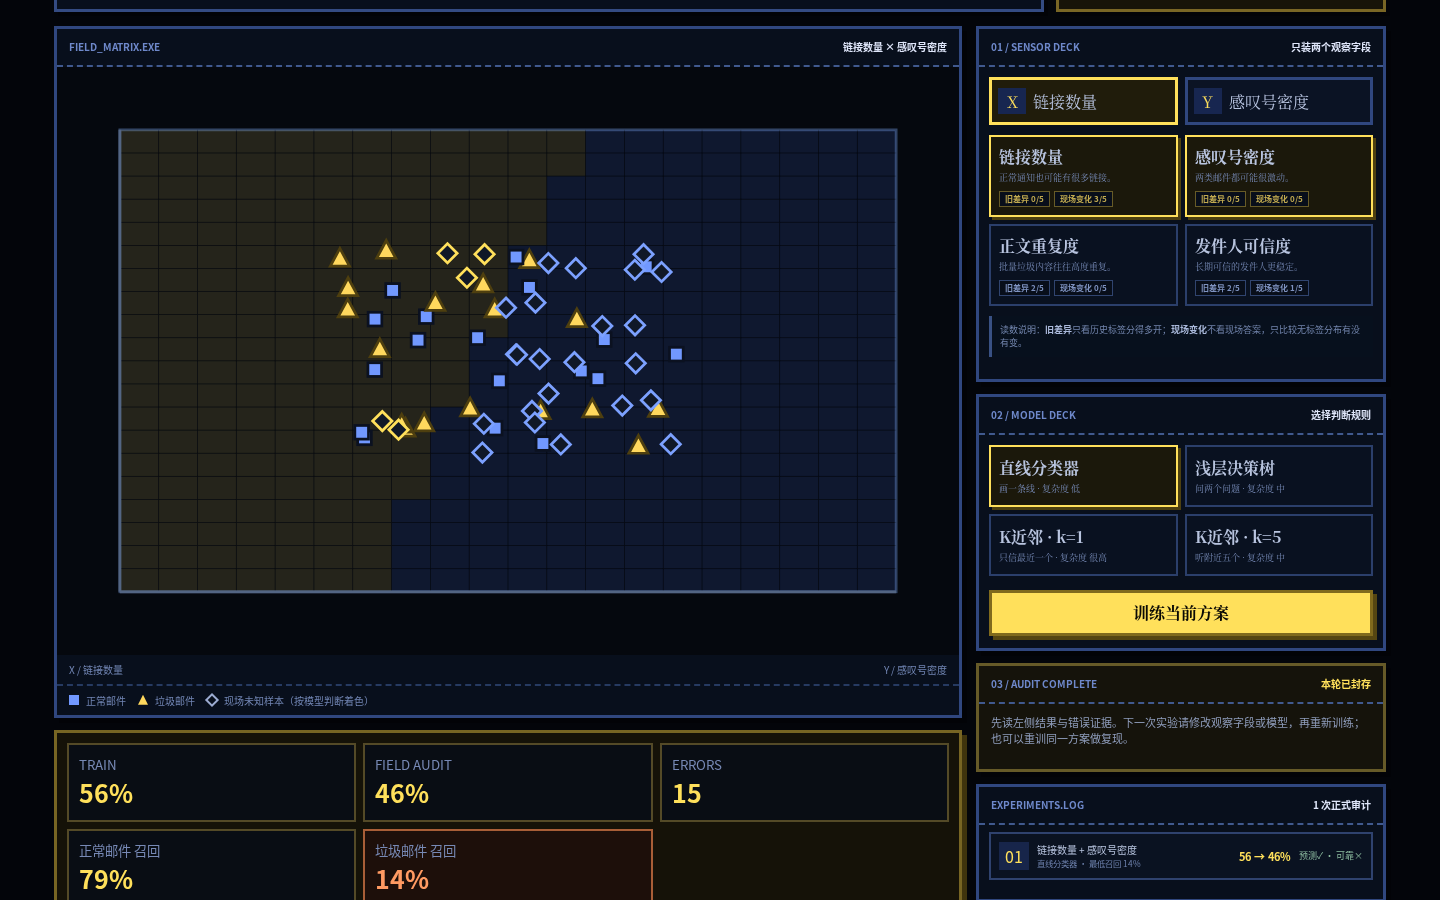
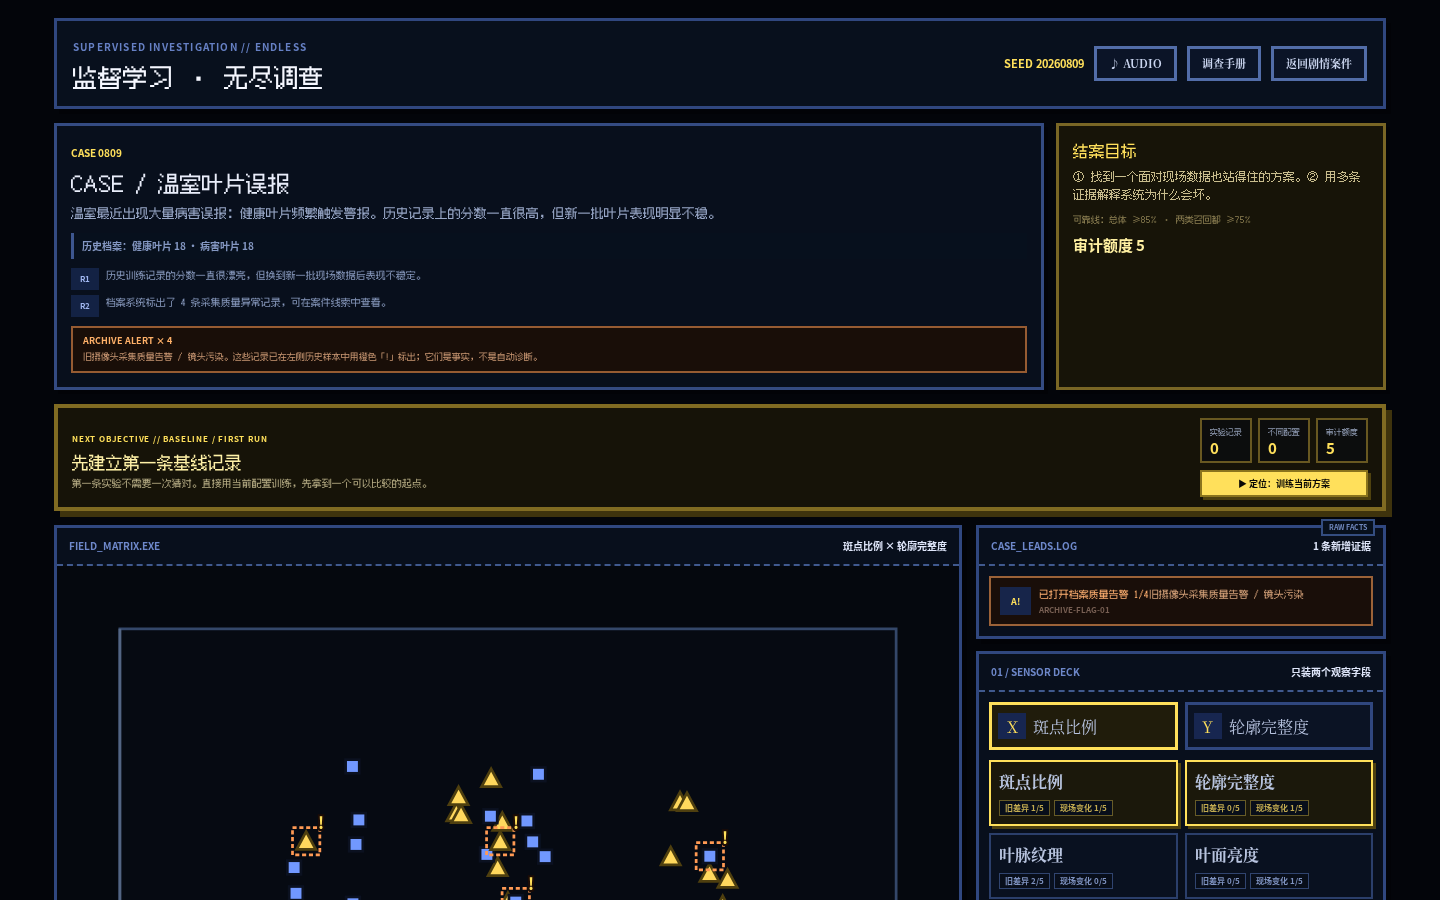
docs: document guided endless investigation flow

diff --git a/docs/VALIDATION.md b/docs/VALIDATION.md
@@ -1,6 +1,6 @@
 # V1 发布验证记录
 
-验证日期：2026-08-09
+验证日期：2026-08-10
 
 ## 发布级验证命令
 
@@ -18,9 +18,9 @@ npm run test:e2e
 
 - ESLint：通过，0 warning / 0 error。
 - TypeScript strict typecheck：通过。
-- Vitest：7 个测试文件、28 个测试全部通过。
+- Vitest：9 个测试文件、37 个测试全部通过。
 - Vite production build：通过。
-- Playwright：5 条 Chromium E2E 通过（剧情完整案件、debug 工程模式、无尽证据路线、额度耗尽恢复路线、类别不平衡路线）。
+- Playwright：13 条 Chromium E2E 通过，覆盖剧情完整案件、debug 工程模式、无尽模式说明、Boot Case 000、正式证据导航、症状文案、复现实验守卫、桌面 viewport、分布变化、额度恢复与类别不平衡。
 - GitHub Actions CI：通过；GitHub runner 已真实执行 lint、typecheck、unit tests、build、Chromium E2E。
 
 ## 固定 seed 教学指标
@@ -60,12 +60,15 @@ Vitest 当前覆盖：
 - 教学任务、NPC 提示、模型 / 特征说明保持短文本约束。
 - 调查评级：错误上线、推理修正、预测偏差、额外审计和提示会降低评级；S 只保留给干净证据路线。
 - 无尽生成器：确定性、四类 syndrome、传感器通道重排、可解性与随机配置成功比例。
+- 无尽案件 symptom-only brief：incident / reported facts 不直接写出正确诊断；过拟合类含可点击历史档案质量告警，distribution-shift 含历史 / 现场批次元数据。
+- 无尽实验设计：同一配置重复审计识别为 replication，不增加可提交诊断所需的“不同配置”数量；只换字段 / 只换模型 / 混合改动均有确定分类。
+- answer-neutral 导航：baseline、预测、对照、诊断、诊断锁、零额度恢复均映射到可达下一动作；导航文本单测禁止出现四类 syndrome 答案词。
 - 类别不平衡：存在总体 Accuracy ≥90% 但最低类别 recall <75% 的真实假好方案，同时存在可靠解。
 - 自动玩法平衡：批量 seed 上 evidence-policy 必须显著优于 5 次 random-clicker。
 
 ## Playwright 浏览器 E2E
 
-`e2e/happy-path.spec.ts` 当前包含五条真实 Chromium 路线。
+`e2e/happy-path.spec.ts` 当前包含 13 条真实 Chromium 路线。
 
 零基础玩家完整案件：
 
@@ -87,7 +90,18 @@ Vitest 当前覆盖：
 
 工程模式路线会直接打开 `?debug=1`，验证 DebugPanel、阶段跳转和快速主操作仍可用，不受普通玩家 micro-beat 门槛影响。
 
-无尽证据路线用程序化案件验证：5 次正式审计预算、先预测再审计、错误诊断后不能立刻轮流试答案、必须新增一次审计才可改口、正确诊断后生成下一案。
+无尽 onboarding / 证据路线现在验证：
+
+- 标题次入口先进入模式说明，不直接把新人扔进 sandbox。
+- Boot Case 000 真实完成“建立基线 → 只换字段做对照 → 从日志认出变量 → 三类证据阅读练习 → 诊断草稿 → 正式提交”；所有分数来自真实 generator / model / audit。
+- Boot 完成后使用版本化 localStorage 标记；正式模式仍可 query 直达，训练案件可重玩。
+- 正式案件首屏只描述症状，不写出 syndrome；sticky `NEXT OBJECTIVE` 持续告诉玩家下一步缺什么动作，但不推荐具体字段、模型或病因。
+- 过拟合类历史档案的质量告警在散点图里为可点击橙色 `!`；只有玩家亲手打开后才进入 `CASE_LEADS.LOG`。
+- 正式审计结果只给总体 / 两类 recall 的 PASS/FAIL 门槛，不自动解释成过拟合、漂移或类别不平衡。
+- `EXPERIMENTS.LOG` 记录 baseline、只换字段、只换模型、混合改动与复现实验；错误诊断后，原样复现不会解锁改口，必须产生一个不同配置的新正式审计。
+- 诊断锁且额度为 0 时，sticky 导航会直接定位到“申请 1 次补充审计”，验证有限预算不形成软锁。
+- 1280×720 以及常规桌面 viewport 验证 intro / Boot / 正式模式没有横向爆版，`定位下一步操作` 可将关键 CTA 带入视野。
+- distribution-shift 路线验证 `HISTORY BATCH / FIELD BATCH` 元数据可见，但首屏不出现“分布漂移”答案词。
 
 额度恢复路线会连续耗尽 5 次正式未知审计，确认额外审计入口出现、恢复 1 次可执行额度，并且这类补救会进入结案评级扣分；有限预算因此制造决策成本，但不会造成不可恢复死局。
 
@@ -106,7 +120,7 @@ E2E 使用 Playwright 的真实可操作性检查；如果 overlay、NPC、toolt
 
 - evidence-policy 结案率约 **98.9%**；
 - random-clicker 结案率约 **15.7%**；
-- evidence-policy 平均最佳未知表现约 **99.0%**；
+- evidence-policy 平均最佳未知表现约 **99.4%**；
 - random-clicker 平均最佳未知表现约 **88.5%**。
 
 Evidence policy 只读取玩家同样可见的训练标签几何与**无标签**现场分布变化，不读取隐藏 syndrome/test label。测试硬门槛要求 evidence solve rate ≥90%、random solve rate <30%、二者结案率差 >60 个百分点，并要求未知表现存在显著差距。
@@ -141,6 +155,7 @@ Windows 真机截图仍作为最终美术判断基准；headless Chromium 主要
 - `hero.png`：Cold Open 中小析正式给出案件目标。
 - `misclassification.png`：两条未知误判证据与现场推理。
 - `endless.png`：监督学习无尽模式的首次正式审计。
+- `endless-boot.png`：Boot Case 000 的两条控制变量实验记录。
 - `imbalance.png`：总体高分但少数类召回失败的类别不平衡陷阱。
 - `demo.gif`：标题 → 事故录像 → 案件目标 → 旧样本观察 → 决策探针 → 两条证据 → 过拟合 → 备用传感器 → 最终修复的短演示。
 

diff --git a/README.md b/README.md
@@ -46,6 +46,12 @@
 
 **Supervised Investigation · 无尽调查** 是可重复玩的程序化监督学习诊断模式。每个 seed 会重排传感器通道、生成不同案件语境，并从四类真实故障中产生一类：特征不足、训练噪声 / 过拟合、分布漂移、类别不平衡。训练免费，但正式未知审计只有 5 次；每次审计前必须先预测结果，最后还要提交病因。
 
+第一次进入无尽调查不会直接掉进驾驶舱：短模式说明先解释“配置 → 预测 → 审计 → 对照 → 诊断”的循环，随后推荐完成 **Boot Case 000**。训练案件会亲手教一次控制变量、读取 `EXPERIMENTS.LOG`、识别训练满分 / 类别召回 / 环境变化等证据模式，以及“选择病因只是草稿，提交才会锁报告”。正式无尽模式随后撤掉这些解释，只保留一个 sticky `NEXT OBJECTIVE` 告诉玩家**下一步缺什么动作或证据**，不会告诉该选哪个字段、模型或病因。
+
+![Boot Case 000：控制变量实验](docs/assets/endless-boot.png)
+
+正式案件的故障也必须存在于可观察世界里：过拟合案件会留下可点击的历史采集质量告警，分布变化案件显示历史 / 现场批次元数据，类别不平衡直接来自真实档案构成；这些都是原始事实，不是自动诊断。
+
 ![监督学习无尽调查](docs/assets/endless.png)
 
 无尽模式不只看 Accuracy：可靠方案要求总体未知准确率 ≥85%，且两类召回都 ≥75%。因此会出现“总体 93%，但少数类召回只有 50%，仍然不能结案”的陷阱。
@@ -59,6 +65,7 @@
 - **过拟合是真的。** 固定 seed 下，k=1 会真实取得训练 100%，同时在未知数据上退步。
 - **错误样本可以调查。** 不是只给一个 Accuracy；玩家必须调查两条不同误判并完成一次证据推理。
 - **实验有成本。** 正式未知审计有额度；改模型 / 特征后必须重新下注，穷举不是零成本最优策略。
+- **对照实验真的有价值。** `EXPERIMENTS.LOG` 会记录“只换字段 / 只换模型 / 两者都换 / 原样复现”，结案评级会评价实验设计质量，但不会阻止玩家自由试验。
 - **评价不只看总分。** 无尽模式还看两类召回，能制造“93% Accuracy 仍然不能上线”的类别不平衡案件。
 - **先体验，再命名概念。** 玩家先遇到“旧题会、新题崩”，之后游戏才告诉你这叫泛化与过拟合。
 - **自动测试游戏深度。** 程序会比较 evidence-policy 与 random-clicker；当前平衡门槛要求证据策略结案率显著高于 5 次随机穷举。
@@ -99,7 +106,7 @@
 - reducer 状态机负责教学守卫与阶段推进
 - 程序化 Web Audio 8-bit BGM / 音效
 - Vitest：ML 核心、隐藏测试边界、状态机、调查评级、无尽案件生成与 random-clicker 平衡基线
-- Playwright：剧情完整路线、debug 工程路线、无尽诊断路线、额度耗尽恢复路线、类别不平衡路线
+- Playwright：剧情完整路线、debug 工程路线、无尽模式说明、Boot Case 000、正式证据导航、窄屏桌面、额度恢复、分布变化、类别不平衡等真实浏览器路线
 - GitHub Actions：lint + typecheck + unit test + build + E2E
 - GitHub Pages：`main` 更新后自动构建部署，并用同一条 Playwright 流程验证生产站点
 
@@ -114,7 +121,7 @@ npm run dev
 
 然后打开 Vite 输出的本地地址。
 
-标题页可直接进入剧情案件或监督学习无尽调查；也可以用 query 固定无尽 seed：
+标题页以剧情案件为主入口；“已熟悉流程？进入无尽调查”会先进入模式说明与训练案件。开发 / 复现时也可以用 query 直接固定正式无尽 seed：
 
 ```text
 http://localhost:5173/?mode=endless&seed=6000

diff --git a/docs/PRODUCT_DESIGN.md b/docs/PRODUCT_DESIGN.md
@@ -63,14 +63,27 @@
 ## 监督学习无尽模式
 V1 不扩第二个手工剧情关卡，而是增加可重复的 `Supervised Investigation`：
 
+### 进入桥接
+- 标题页使用“已熟悉流程？进入无尽调查”作为次入口，避免与剧情主入口争夺第一次注意力。
+- 首次进入先显示一张极短模式说明，只讲规则循环，不讲任何案件答案。
+- 推荐先完成 **Boot Case 000**：用真实 generator / model / audit 结果做两次控制变量实验，亲手读取实验日志，再完成训练版诊断提交。
+- Boot Case 还集中教学三类常见证据阅读：训练满分但现场下降、总体分掩盖少数类、历史 / 现场环境变化。这些解释**只存在于训练案件**。
+- Boot 结束后保存版本化本地完成标记；正式无尽仍可直接进入，训练案件也可主动重玩。
+
+### 正式无尽原则
+- sticky `NEXT OBJECTIVE` 只回答“下一步缺什么动作 / 证据”，绝不回答“哪个字段 / 模型 / 病因是对的”。
+- 正式模式不会动态把某个指标解释成“过拟合 / 漂移 / 类别不平衡”；审计只显示客观分数、分类别召回与门槛 PASS/FAIL。
+- `调查手册` 是玩家主动打开的静态方法论备忘录，不是按当前案件生成的提示器。
+- 病因必须在世界中有原始证据：训练噪声案件存在可点击档案质量告警；分布变化案件有历史 / 现场批次元数据；类别不平衡来自真实档案构成；特征不足通过公开字段统计与实验对照暴露。
+
 - 每个 seed 程序化生成一个单人分类案件。
 - 当前四类真实故障：**特征不足、训练噪声 / 过拟合、分布漂移、类别不平衡**。
 - 每类故障有多组案件语境；四个传感器通道会随 seed 重排，不能背“永远点后两个”。
 - 玩家能看到训练标签、无标签现场特征分布，以及每个传感器的“旧样本差异 / 现场变化”证据，但看不到现场真值。
 - 训练不耗预算；正式未知审计初始只有 5 次。每次审计前必须预测未知表现。
-- 结案要求找到可靠方案并提交病因；诊断答错后必须获得一条新的正式审计证据，不能把四个答案轮流点击。
+- 结案要求找到可靠方案并提交病因；至少需要比较两个**不同实验配置**。诊断答错后必须改变字段或模型、获得一条新的正式审计证据，原样复现不能解锁改口，从而避免把四个答案轮流点击。
 - 可靠方案不只看 Accuracy：**总体未知准确率 ≥85%，且两个类别召回都 ≥75%**，因此类别不平衡案件会故意出现“总体 93% 但少数类召回 50%”的假好成绩。
-- 案件结束按实验次数、预测命中、额外额度等给调查评级；评级奖励证据驱动的少量实验，而不是训练集最高分。
+- `EXPERIMENTS.LOG` 会标记 `BASELINE / 只换字段 / 只换模型 / 两者都换 / 复现实验`。案件结束按实验次数、预测命中、额外额度、单变量对照与混合改动给调查评级；评级奖励能解释的实验设计，而不是训练集最高分。
 
 自动玩法平衡把无尽案件同时交给 evidence-policy 与 random-clicker。当前硬门槛要求：证据策略高成功、5 次随机穷举低成功，并保持显著差距；生成器退化成“乱点也能过”时单测直接失败。
 
